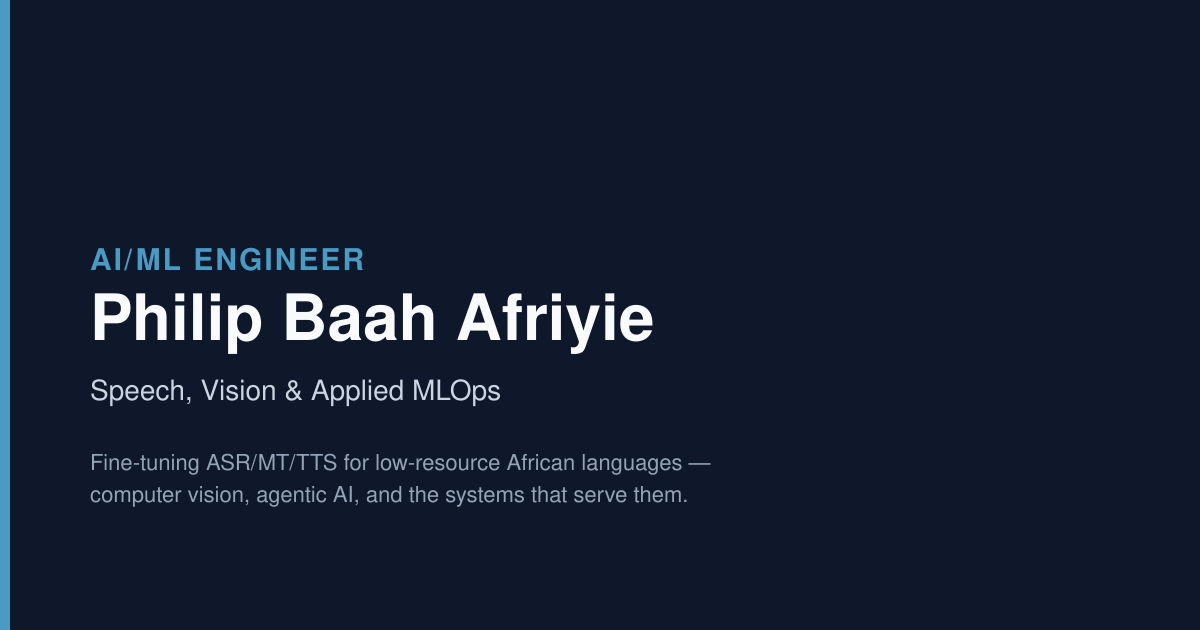
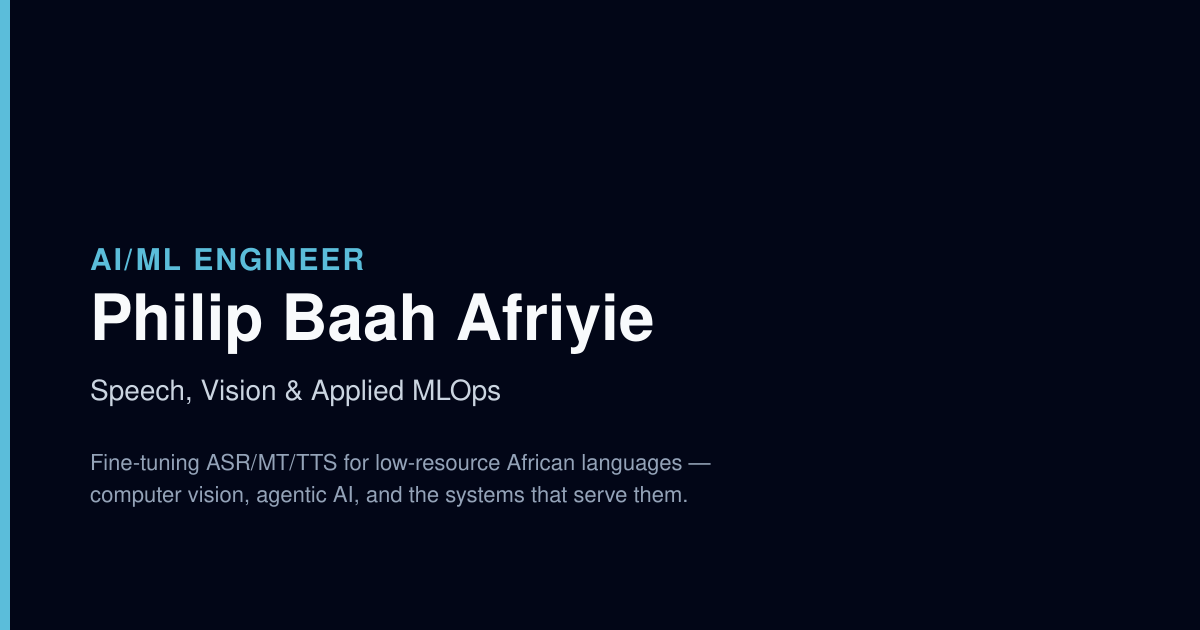
Redesign: single fixed dark theme + diagram thumbnails on cards
Philip's fair pushback: the site didn't actually look like the
reference (rahul-lumbhani-portfolio.vercel.app) he sent at the start,
even though CLAUDE.md documented a deliberate divergence - that
decision was buried in a planning doc he never actually saw rendered.
Asked which specific direction he wanted rather than guess again.

- Committed to a single fixed dark theme (not adaptive to system
  preference, no toggle) - matches the reference's aesthetic. Stripped
  every dark: variant class from the codebase (verified: zero remain,
  `grep -rn "dark:" src/` comes back empty) and consolidated to one
  accent color, re-verified against every background it appears on
  (9.35:1 / 8.28:1 / 6.78:1 on slate-950/900/800 - all clear 4.5:1)
- Added PipelineThumbnail.astro: a simplified preview of each case
  study's full architecture diagram (4 boxes, no fine print - a full
  diagram's small text would be illegible at card size) shown on the
  homepage cards, addressing the "cards look flat" gap versus the
  reference's project thumbnails
- Kept the two things rejected on substance rather than taste:
  GitHub/LeetCode stat widgets (would undersell him given private
  repos) and filterable skill icon grids (reads as generic template)
- Regenerated the OG image to match the exact final palette
- Full verification re-run after the redesign: astro check clean,
  build clean, zero broken links, zero escaped-SVG regressions across
[…]

Changed region(s): [[0.0, 0.0, 0.0308, 1.0], [0.0617, 0.3921, 0.3083, 0.4524]]

diff --git a/src/styles/global.css b/src/styles/global.css
@@ -1,16 +1,13 @@
 @import "tailwindcss";
 @plugin "@tailwindcss/typography";
 
-/* Single accent colour (CLAUDE.md §6) — everything else is Tailwind's neutral/slate ramp.
-   Change it here once; nothing else should hardcode a hue. */
+/* Single fixed dark theme (deliberate — not adaptive to system preference; see CLAUDE.md §6).
+   One accent colour, verified against every background it appears on: 9.35:1 on slate-950,
+   8.28:1 on slate-900, 6.78:1 on slate-800 — comfortably clears the 4.5:1 minimum everywhere. */
 @theme {
-  /* L=0.46 chosen for a measured 6.44:1 contrast against white — the original 0.6 lightness
-     measured only 3.67:1, failing the 4.5:1 minimum in CLAUDE.md §5. Verified with an OKLCH ->
-     sRGB -> WCAG relative-luminance calculation, not eyeballed. */
-  --color-accent: oklch(0.46 0.13 220);
-  --color-accent-light: oklch(0.75 0.1 220);
+  --color-accent: oklch(0.75 0.1 220);
 }
 
 :root {
-  color-scheme: light dark;
+  color-scheme: dark;
 }

diff --git a/CLAUDE.md b/CLAUDE.md
@@ -222,8 +222,13 @@ No hero animation. No "scroll to explore". No splash screen.
   as inline SVG so they stay crisp and theme-aware.
 - Accessibility is non-negotiable: semantic landmarks, one `<h1>` per page, real focus states,
   4.5:1 contrast minimum, alt text on every diagram that describes the *system*, not the picture.
-- Dark and light mode must both be correct. Define light on `:root`, override under
-  `prefers-color-scheme: dark`.
+- **Single fixed dark theme — not adaptive, no toggle** (decided 2026-09-10, superseding an
+  earlier light-first/adaptive rule that was never actually shown to Philip before being built).
+  `color-scheme: dark` in `:root`; no `dark:` variant classes anywhere in the codebase — a plain
+  class *is* the dark-mode value. One accent colour (`--color-accent`, `oklch(0.75 0.1 220)`),
+  verified against every background it sits on: 9.35:1 on slate-950, 8.28:1 on slate-900, 6.78:1
+  on slate-800. If a future change reintroduces `dark:` anywhere, that's a regression, not a
+  variation to fix — grep for it (`grep -rn "dark:" src/`) and remove it.
 - Responsive from 320px. Nothing scrolls horizontally except a deliberately scrollable diagram.
 
 **Dev workflow:** run the dev server in background mode (`astro dev --background`; manage with
@@ -240,7 +245,10 @@ preserved at `ASTRO-DEV-NOTES.md`.)
 
 **Deployment — Vercel:**
 
-- Repo: `philip-portfolio` (public), connected to Vercel for push-to-deploy on `main`.
+- Repo: `philip-portfolio`, connected to Vercel for push-to-deploy on `main`. **Currently
+  private** (Philip's explicit choice, made while case-study content review was still open — see
+  §3a and Phase 5) — flip to public once that's resolved. The deployed *site* is public regardless
+  of repo visibility; Vercel builds from a private repo without issue.
 - Astro's default static output is correct here. Do **not** add an SSR adapter — there is no server
   need, and static keeps it fast and free.
 - Vercel auto-detects Astro; no `vercel.json` unless a redirect is actually required.
@@ -256,10 +264,15 @@ preserved at `ASTRO-DEV-NOTES.md`.)
 **Reference:** <https://rahul-lumbhani-portfolio.vercel.app/> — use for *structure and polish*, not
 as a template to clone.
 
-Borrow: the clean header nav (Home / Work / About), dark-first palette, skip-to-content link,
-featured-project cards that link to dedicated pages, and the contact section with social links.
+Borrowed and built (confirmed against the live site, 2026-09-10 — this was originally a plan
+written before Philip could see the result, and the gap between the two is exactly why it's worth
+recording precisely now): clean header nav (Home / Work / About), a single fixed **dark theme**
+(not adaptive — see §5), skip-to-content link, a headshot in the hero, project cards that link to
+dedicated pages **with a small architecture-diagram preview** (`PipelineThumbnail.astro` —
+simplified, no fine print, since a full diagram's text is illegible at card size), and the contact
+section with social links.
 
-Deliberately reject:
+Deliberately reject, on substance not just taste:
 
 - **Filterable skill icon grids and tech-stack icon walls.** They're decorative and read as a
   junior-portfolio template. Philip's skills go in grouped text lists, as in the resume.
@@ -269,7 +282,8 @@ Deliberately reject:
   constrained environment*. Every word should support that, not undercut it.
 
 The decisive difference from the reference: **its project cards are shallow, and depth is Philip's
-entire differentiator.** Adopt the shell, then go far deeper on each case study.
+entire differentiator.** Adopt the shell and its visual richness, then go far deeper on each case
+study than it does.
 
 Restraint reads as senior. Over-design reads as compensating.
 

diff --git a/src/content/case-studies/voice-ai-survey-platform.md b/src/content/case-studies/voice-ai-survey-platform.md
@@ -17,7 +17,7 @@ order: 1
 featured: true
 ---
 
-<p class="rounded-lg border border-amber-300 bg-amber-50 px-4 py-3 text-sm text-amber-900 dark:border-amber-800 dark:bg-amber-950 dark:text-amber-200">
+<p class="rounded-lg border border-amber-800 bg-amber-950 px-4 py-3 text-sm text-amber-200">
   Prototype — this system was designed and built end to end but never deployed to production or
   used on a real call. The results below are what was validated internally, not field results.
 </p>
@@ -43,7 +43,7 @@ just hangs up rather than repeating themselves. That set the real constraints:
 
 ## Architecture
 
-<svg viewBox="0 0 800 320" role="img" aria-label="Two front ends, LiveKit for live calls and FastAPI for batch audio, both call into one shared survey engine: speech recognition, machine translation, answer classification routed to one of five parsers by question type, dynamic question routing with a time-based shortening rule, and speech synthesis. Session state is written to disk after every turn so any worker can resume any call." class="my-8 w-full text-slate-700 dark:text-slate-300">
+<svg viewBox="0 0 800 320" role="img" aria-label="Two front ends, LiveKit for live calls and FastAPI for batch audio, both call into one shared survey engine: speech recognition, machine translation, answer classification routed to one of five parsers by question type, dynamic question routing with a time-based shortening rule, and speech synthesis. Session state is written to disk after every turn so any worker can resume any call." class="my-8 w-full text-slate-300">
   <defs>
     <marker id="arrow-voiceai" viewBox="0 0 10 10" refX="9" refY="5" markerWidth="6" markerHeight="6" orient="auto-start-reverse">
       <path d="M0,0 L10,5 L0,10 z" fill="currentColor" />

diff --git a/src/content/case-studies/akan-english-speech-pipeline.md b/src/content/case-studies/akan-english-speech-pipeline.md
@@ -38,7 +38,7 @@ training started:
 
 ## Architecture
 
-<svg viewBox="0 0 800 260" role="img" aria-label="Speech-to-text: Whisper fine-tuned on normalized, code-switched Akan transcripts. Machine translation: bidirectional NLLB-200 between Akan and English, tracked in MLflow. Text-to-speech: a custom-trained Akan voice. All three packaged for serving behind NVIDIA Triton, fronted by a FastAPI gateway handling auth and rate limiting, with Terraform and Ansible configs Philip authored that the cloud engineer applies to provision the running cluster." class="my-8 w-full text-slate-700 dark:text-slate-300">
+<svg viewBox="0 0 800 260" role="img" aria-label="Speech-to-text: Whisper fine-tuned on normalized, code-switched Akan transcripts. Machine translation: bidirectional NLLB-200 between Akan and English, tracked in MLflow. Text-to-speech: a custom-trained Akan voice. All three packaged for serving behind NVIDIA Triton, fronted by a FastAPI gateway handling auth and rate limiting, with Terraform and Ansible configs Philip authored that the cloud engineer applies to provision the running cluster." class="my-8 w-full text-slate-300">
   <defs>
     <marker id="arrow-akan" viewBox="0 0 10 10" refX="9" refY="5" markerWidth="6" markerHeight="6" orient="auto-start-reverse">
       <path d="M0,0 L10,5 L0,10 z" fill="currentColor" />

diff --git a/src/content/case-studies/docu-ai.md b/src/content/case-studies/docu-ai.md
@@ -33,7 +33,7 @@ than a typical converter:
 
 ## Architecture
 
-<svg viewBox="0 0 800 200" role="img" aria-label="Pipeline: parse markdown into an AST, plan Docs API batch update requests from it, emit by calling the API, then verify by reading the built document back and lint-checking for residue" class="my-8 w-full text-slate-700 dark:text-slate-300">
+<svg viewBox="0 0 800 200" role="img" aria-label="Pipeline: parse markdown into an AST, plan Docs API batch update requests from it, emit by calling the API, then verify by reading the built document back and lint-checking for residue" class="my-8 w-full text-slate-300">
   <defs>
     <marker id="arrow-docuai" viewBox="0 0 10 10" refX="9" refY="5" markerWidth="6" markerHeight="6" orient="auto-start-reverse">
       <path d="M0,0 L10,5 L0,10 z" fill="currentColor" />
